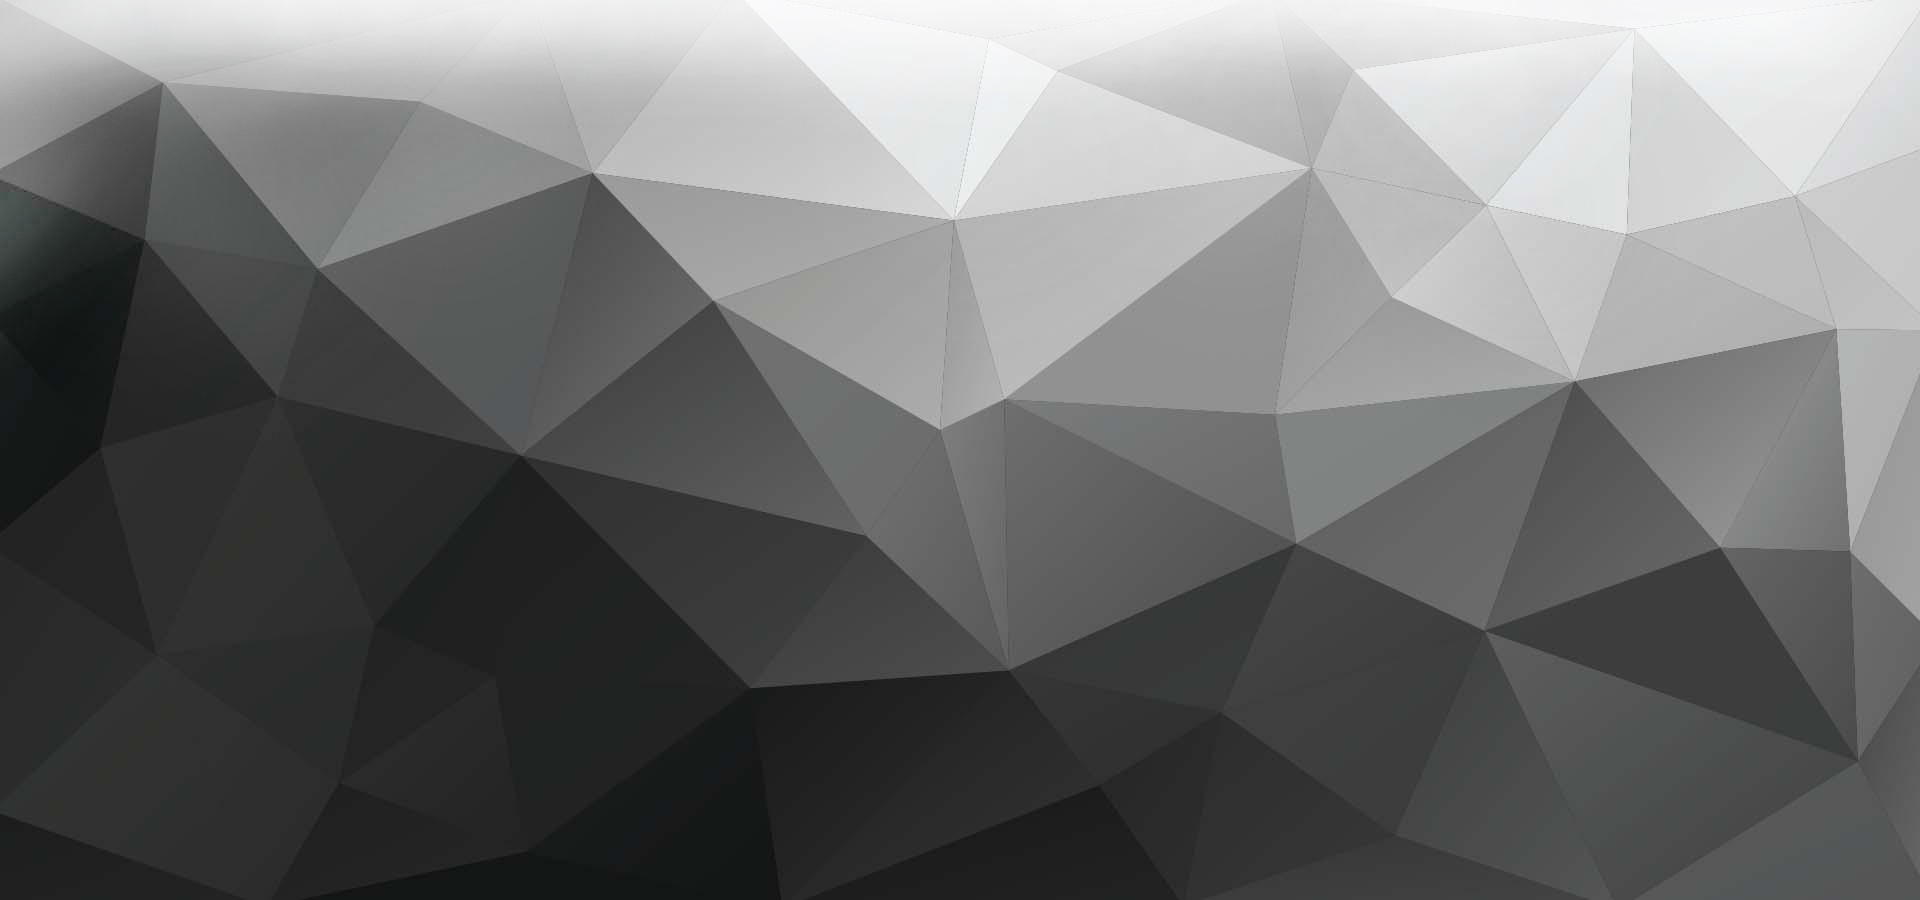
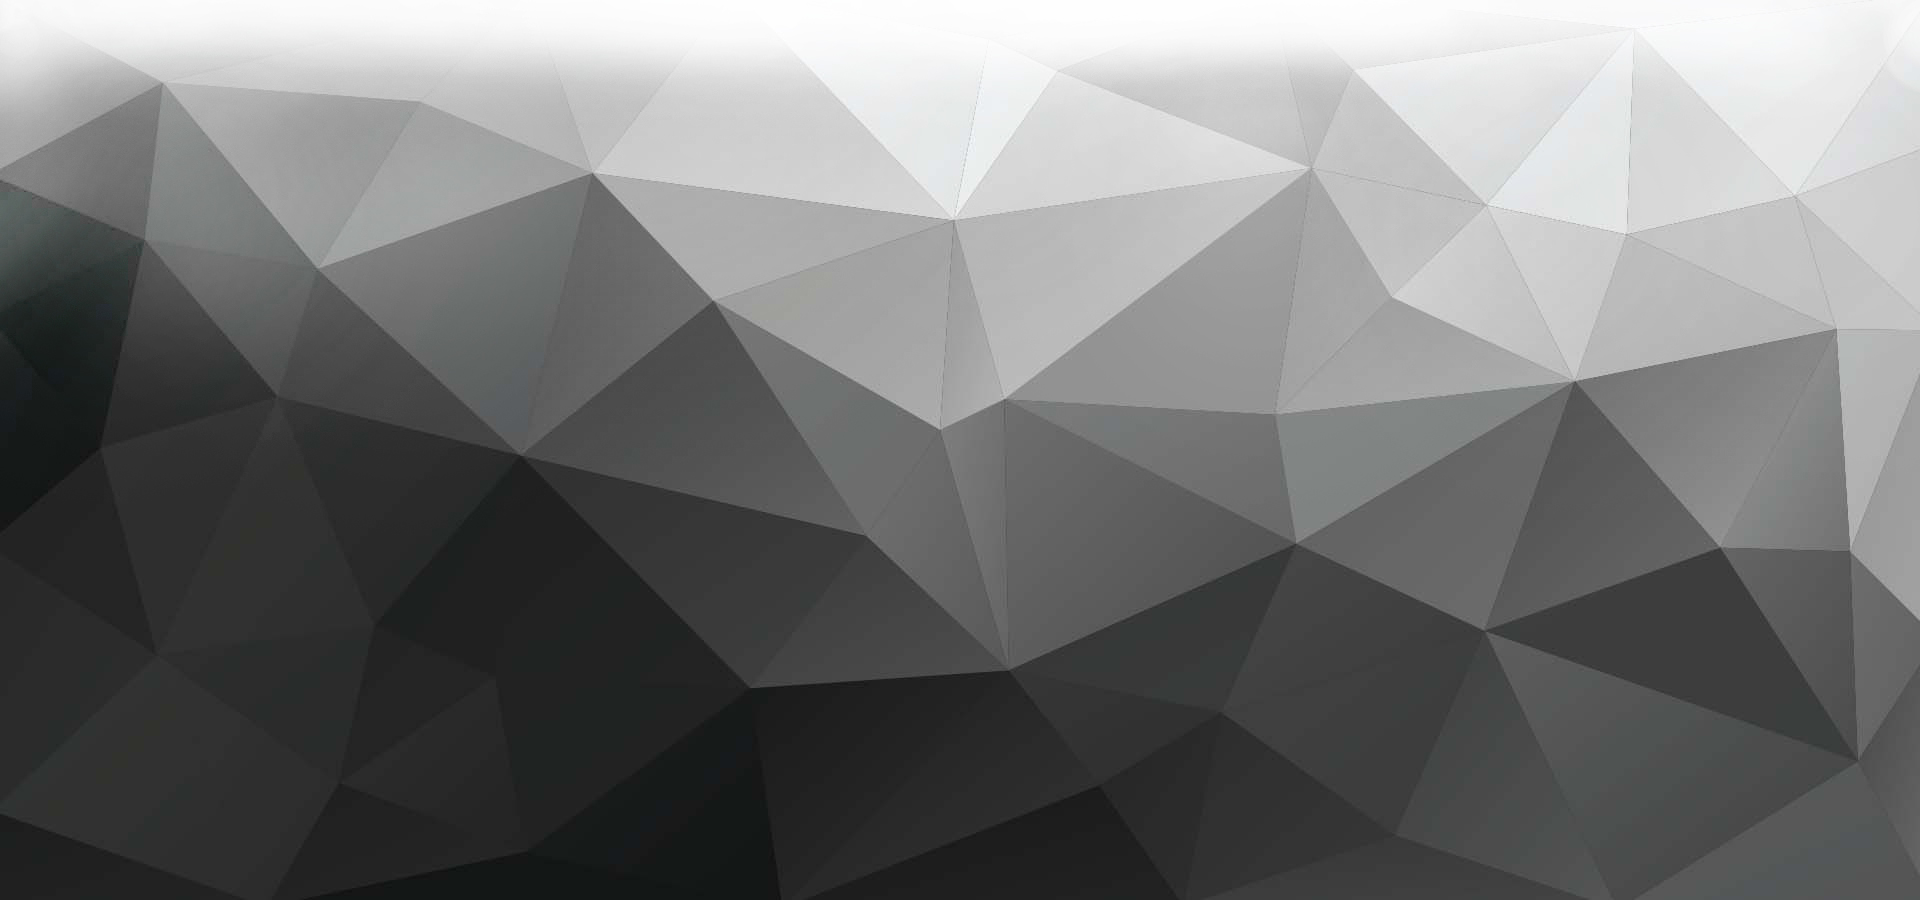
'improve_images'

Changed region(s): [[0.0, 0.0, 0.3438, 0.3733], [0.6562, 0.0311, 0.6875, 0.0622], [0.3438, 0.0311, 0.375, 0.0622]]

diff --git a/my_project/style/style.css b/my_project/style/style.css
@@ -96,7 +96,7 @@ background-image: -ms-repeating-linear-gradient(top,rgb(195, 195, 195) 0%,rgb(21
 }
 
 .main-about {
-background: url("../images/romb(3).jpg");
+background: url("../images/romb.jpg");
 max-width: 100%;
 /* height: 70rem; */
 background-size: cover;
@@ -120,7 +120,7 @@ padding: 7rem 2rem;
     padding: 3rem 3rem;
 }
 .main-lower {
-    background: url("../images/romb1.jpg");
+    background: url("../images/reverse_romb.jpg");
     background-size: cover;
     max-width: 100%;
     height: 61.5rem;
